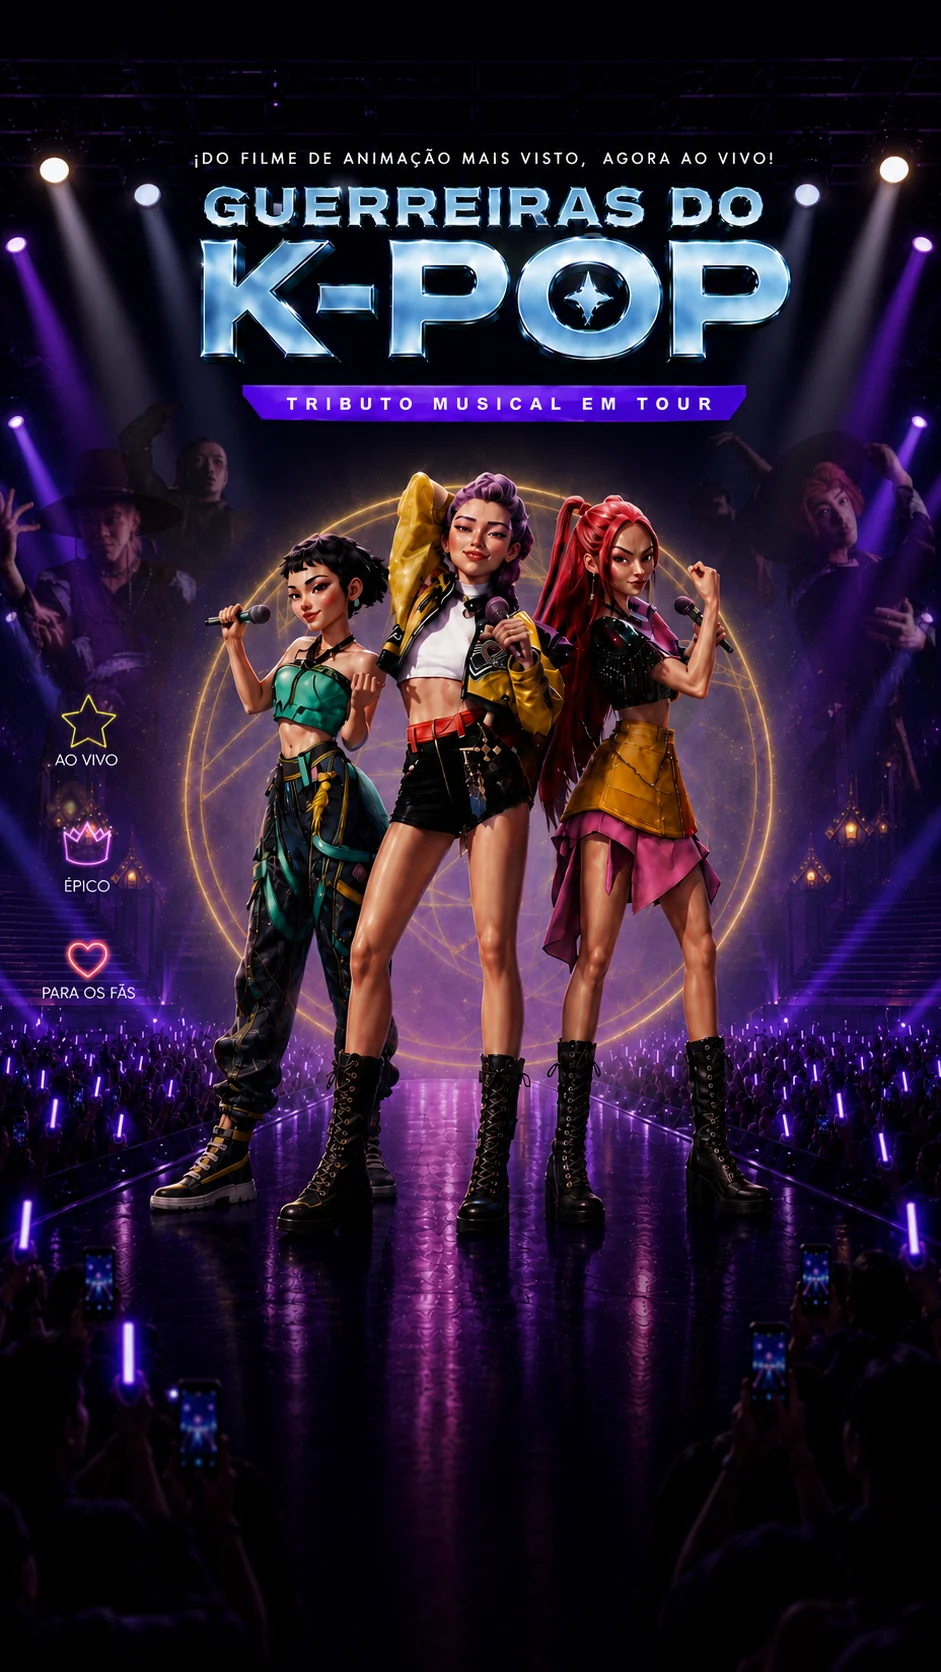
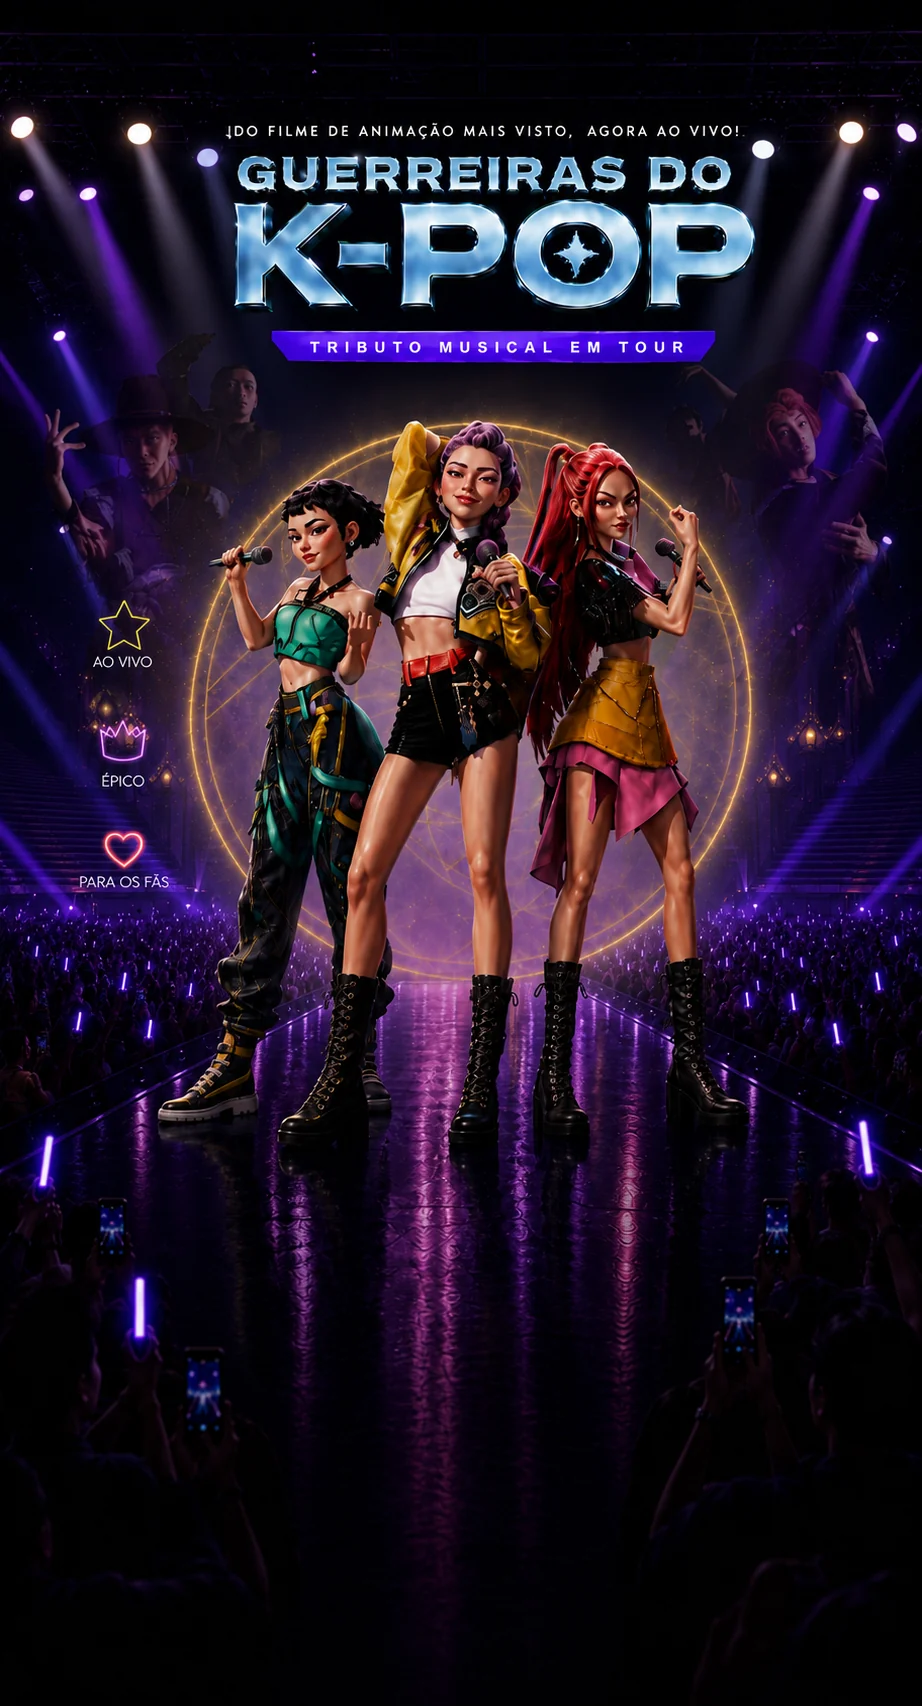
Hero mobile (modo noite): nova imagem + gradient no fundo (sem cortes)
Substituir a imagem do hero (modo noite, smartphone) por nova versão:
- pasted_image_1781810816555.png (922x1706) -> hero-bg-mobile.webp
- Tamanho ORIGINAL mantido (922x1706, sem redimensionar)
- WebP quality=86, method=6, 177.0 KB
- Proporção 9:16.6 (mais perto de 9:19.5 dos telemóveis modernos)

Estratégia: object-fit: contain (foto completa sem cortes) + gradient no fundo.

Cores das bordas da imagem (analisadas com PIL):
- Borda esquerda: #0D0136 (roxo muito escuro)
- Borda direita:  #2B0886 (roxo escuro)

Gradient aplicado ao fundo do .hero-section em mobile (modo noite):
  linear-gradient(to right, #0D0136 0%, #1A0460 50%, #2B0886 100%)

Isto camufla o espaço nas laterais (que aparece porque a imagem é 9:16.6
mas o ecrã é 19.5:9) — o gradient faz a transição suave entre as cores
das bordas da imagem, pelo que o traço fica invisível.

Resultado:
- Foto completa (sem cortes)
- Sem traços nas laterais (gradient camufla)
- Mesma imagem (sem alterações)
- Funciona em qualquer telemóvel

Modo dia (.light-mode) mantém a cor #98A1CB (imagem de dia nao mudou).

Cache-buster bumped: ?v=15 -> ?v=16 (força reload das imagens novas).

diff --git a/src/app/globals.css b/src/app/globals.css
@@ -1831,36 +1831,34 @@ html { scroll-behavior: smooth; }
        de scroll, enquanto hidden pode fazer o browser achar que o elemento
        é scrollável (e bloquear o scroll da página em iOS Safari). */
     overflow: clip !important;
-    /* ═══ COR DE FUNDO = COR DAS BORDAS DA IMAGEM ═══
-       Como object-fit: contain deixa espaço nas laterais (a imagem é 2:3
-       mas o ecrã é 19.5:9), esse espaço aparece como "traço branco".
-       A solução é meter o fundo do hero com a MESMA cor das bordas da
-       imagem, assim o espaço fica invisível (camuflado).
+    /* ═══ COR DE FUNDO = GRADIENT DAS BORDAS DA IMAGEM ═══
+       Como object-fit: contain deixa espaço nas laterais (a imagem é 9:16.6
+       mas o ecrã é 19.5:9), esse espaço aparece como "traço".
+       A solução é meter o fundo do hero com um GRADIENT que faz a transição
+       suave entre as cores das bordas da imagem:
+       - Borda esquerda da imagem: #0D0136 (roxo muito escuro)
+       - Borda direita da imagem:  #2B0886 (roxo escuro)
+       Assim o espaço nas laterais fica invisível (camuflado com gradient).
 
-       Modo noite: bordas da imagem ~#171155 (azul-roxo escuro).
-       Modo dia: bordas da imagem ~#98A1CB (azul-acinzentado claro). */
-    background: #171155 !important;
+       Modo noite: gradient #0D0136 → #2B0886
+       Modo dia:   bordas ~#98A1CB (azul-acinzentado claro) */
+    background: linear-gradient(to right, #0D0136 0%, #1A0460 50%, #2B0886 100%) !important;
   }
   /* Modo dia (.light-mode) — fundo do hero com a cor das bordas da imagem de dia */
   .light-mode .hero-section {
     background: #98A1CB !important;
   }
-  /* ═══ IMAGEM DO HERO EM MOBILE — mostrar a foto COMPLETA sem cortes ═══
-     As imagens novas (modo dia/noite) são 800x1200 (retrato 2:3).
-     Antes: object-fit: cover cortava a imagem para preencher o ecrã.
-     Agora: object-fit: contain mostra a imagem completa, proporcional,
-     sem cortes. Pode haver pequenas barras (letterbox) em ecrãs com
-     proporção muito diferente de 2:3, mas a imagem fica sempre inteira. */
+  /* ═══ IMAGEM DO HERO EM MOBILE — contain com center ═══
+     object-fit: contain mostra a foto COMPLETA sem cortes.
+     O espaço nas laterais é camuflado pelo gradient do fundo do hero
+     (que combina com as cores das bordas da imagem). */
   .hero-bg-img {
     object-fit: contain !important;
     object-position: center center !important;
-    /* Garantir que a imagem ocupa toda a largura disponível */
     width: 100% !important;
     height: 100% !important;
   }
-  /* ═══ MODO NOITE (dark) — voltar a center center.
-     Como o fundo do hero agora tem a MESMA cor das bordas da imagem,
-     o "traço" laterais fica invisível (camuflado). Não é preciso deslocar. ═══ */
+  /* ═══ MODO NOITE (dark) — center center (igual ao modo dia). ═══ */
   :not(.light-mode) .hero-bg-img {
     object-position: center center !important;
   }
@@ -7394,13 +7392,18 @@ img { max-width: 100%; height: auto; }
   .hero-section {
     height: 100svh !important;
     min-height: 100svh !important;
+    /* GRADIENT de fundo = cores das bordas da imagem de noite.
+       Camufla o espaço nas laterais (object-fit: contain). */
+    background: linear-gradient(to right, #0D0136 0%, #1A0460 50%, #2B0886 100%) !important;
+  }
+  /* Modo dia (.light-mode) — fundo do hero com a cor das bordas da imagem de dia */
+  .light-mode .hero-section {
+    background: #98A1CB !important;
   }
 
-  /* A imagem mobile é RETRATO (800×1200, proporção 2:3).
+  /* A imagem mobile é RETRATO (922×1706, proporção ~9:16.6).
      object-fit: contain mostra a foto COMPLETA sem cortes, proporcional.
-     Pode haver pequenas barras (letterbox) em ecrãs com proporção muito
-     diferente de 2:3, mas a imagem fica sempre inteira e os ícones laterais
-     não ficam cortados. */
+     O espaço nas laterais é camuflado pelo gradient do fundo do hero. */
   .hero-bg-img {
     object-fit: contain !important;
     object-position: center center !important;

diff --git a/src/app/page.tsx b/src/app/page.tsx
@@ -1026,23 +1026,23 @@ export default function HomePage() {
             Usa <picture> para servir imagens diferentes conforme o dispositivo:
             - Smartphone (<768px): imagens retrato (hero-bg-mobile*.webp) — novas imagens do user
             - Tablet+ (≥768px): imagens paisagem originais (hero-bg*.webp)
-            Query parameter ?v=15 para cache-busting (força reload das imagens novas). */}
+            Query parameter ?v=16 para cache-busting (força reload das imagens novas). */}
         <picture>
           {/* Smartphone (<768px) — imagens retrato ORIGINAIS do user (substituídas v7) */}
           <source
             media="(max-width: 767px)"
-            srcSet={themeMode === 'light' ? "/hero-bg-mobile-light.webp?v=15" : "/hero-bg-mobile.webp?v=15"}
+            srcSet={themeMode === 'light' ? "/hero-bg-mobile-light.webp?v=16" : "/hero-bg-mobile.webp?v=16"}
             type="image/webp"
           />
           {/* Tablet+ (≥768px) — imagens paisagem originais (hero-bg*.webp) */}
           <source
             media="(min-width: 768px)"
-            srcSet={themeMode === 'light' ? "/hero-bg-light.webp?v=15" : "/hero-bg.webp?v=15"}
+            srcSet={themeMode === 'light' ? "/hero-bg-light.webp?v=16" : "/hero-bg.webp?v=16"}
             type="image/webp"
           />
           {/* Fallback para browsers sem suporte <picture> */}
           <img
-            src={themeMode === 'light' ? "/hero-bg-light.webp?v=15" : "/hero-bg.webp?v=15"}
+            src={themeMode === 'light' ? "/hero-bg-light.webp?v=16" : "/hero-bg.webp?v=16"}
             alt=""
             className={`hero-bg-img ${heroFlash.type !== 'none' ? 'flashing' : ''}`}
             fetchPriority="high"
